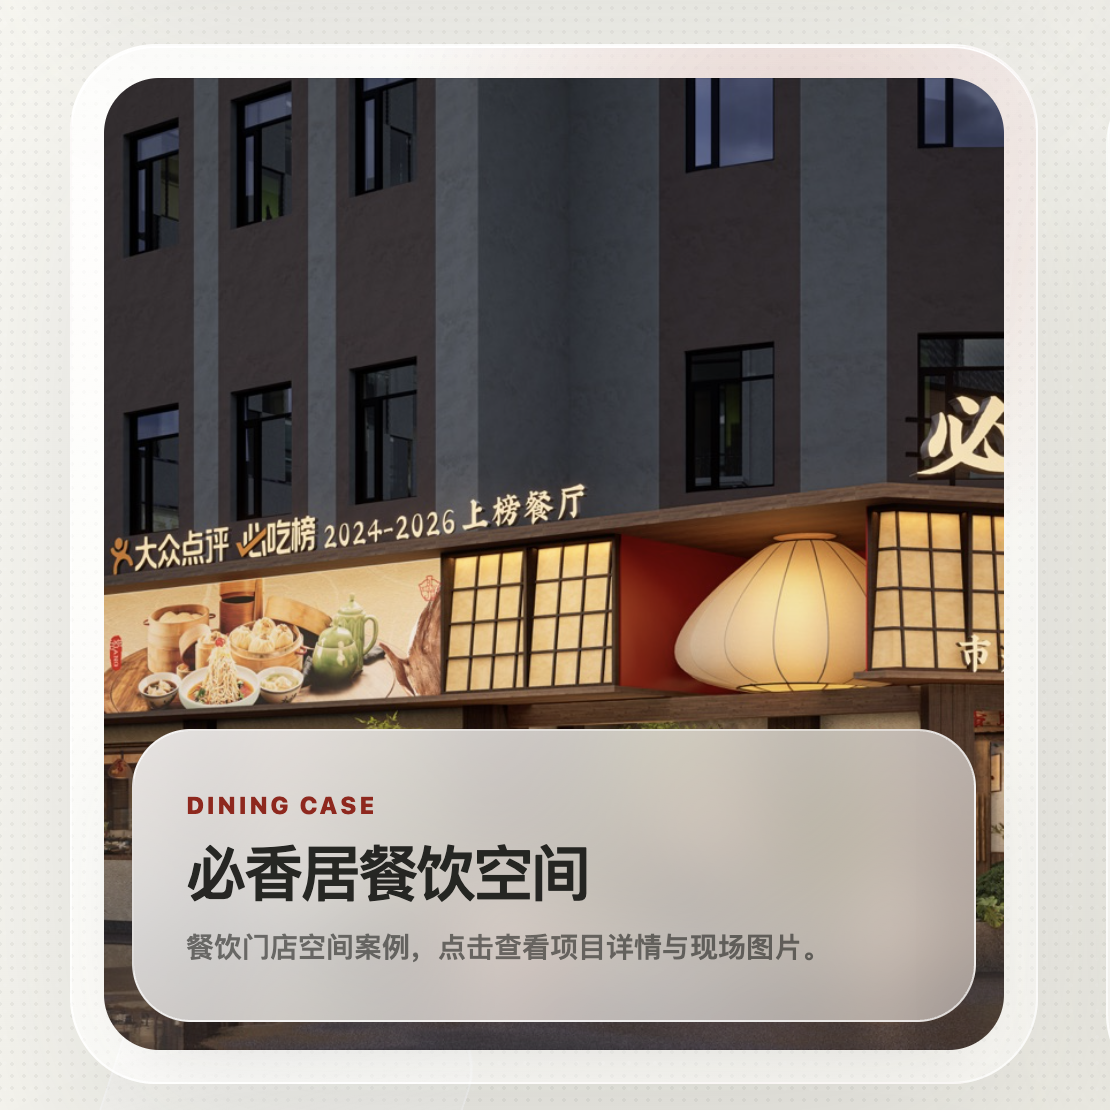
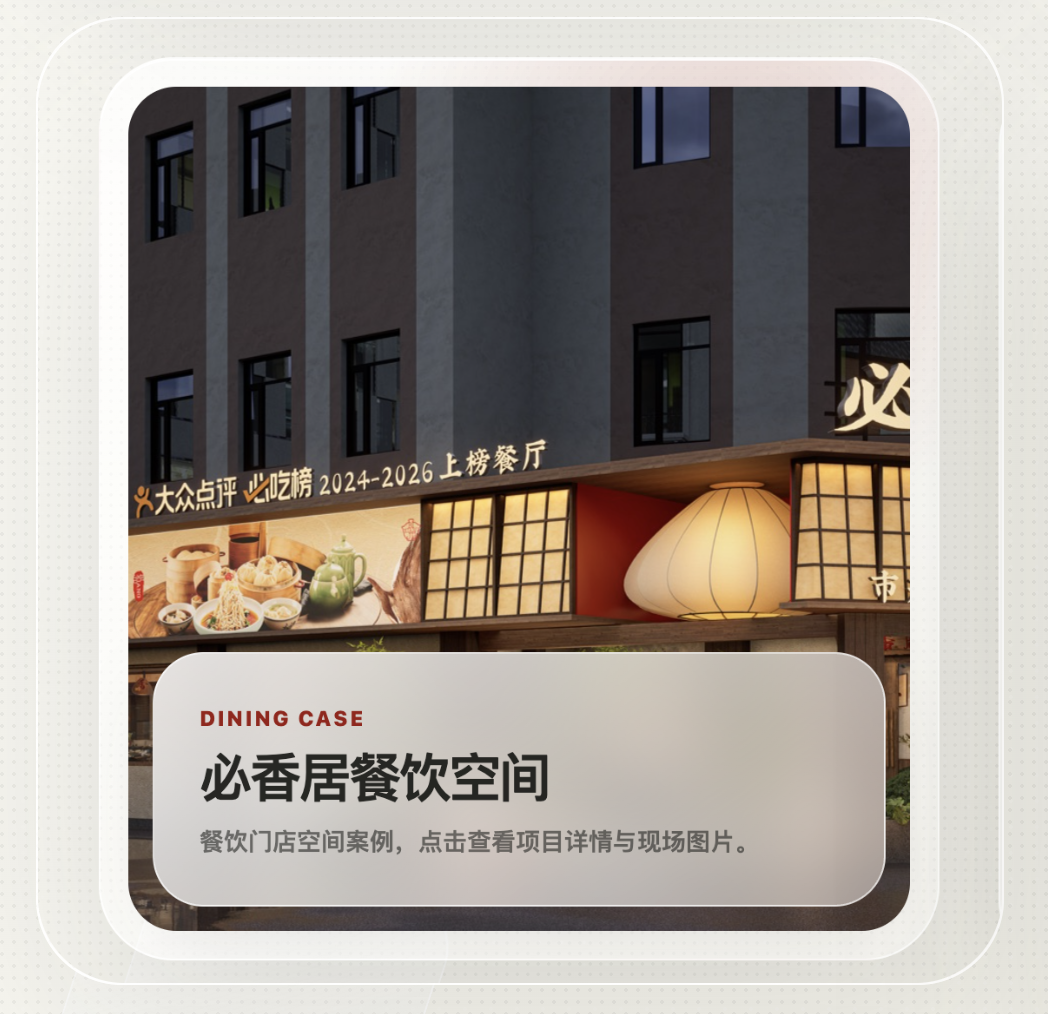
Refine Bixiangju entry cover and project info

diff --git a/outputs/dingji-cases.html b/outputs/dingji-cases.html
@@ -752,7 +752,7 @@
     .case-detail-card.bixiangju-entry {
       min-height: auto;
       aspect-ratio: 1;
-      padding: 0;
+      padding: clamp(18px, 2vw, 28px);
       background: rgba(255,255,255,.48);
     }
     .case-detail-link {
@@ -786,6 +786,21 @@
       inset: 0;
       border-radius: inherit;
       background: rgba(255,255,255,.64);
+    }
+    .bixiangju-entry .case-photo::after {
+      content: "";
+      position: absolute;
+      inset: 0;
+      display: block;
+      border: 0;
+      border-radius: inherit;
+      background: linear-gradient(180deg, rgba(0,0,0,.08), transparent 42%, rgba(0,0,0,.24));
+    }
+    .bixiangju-entry .case-detail-copy {
+      width: min(100%, 360px);
+      margin: 0 auto;
+      border-radius: clamp(24px, 2vw, 36px);
+      background: linear-gradient(145deg, rgba(255,255,255,.88), rgba(235,231,224,.72));
     }
     .case-photo::before {
       content: "PROJECT IMAGE";
@@ -1330,8 +1345,9 @@
         </article>
         <a class="case-detail-card case-detail-link bixiangju-entry" id="bixiangju" href="/cases/bixiangju" style="--brand:#9b1b14;--reveal-index:3" data-reveal aria-label="查看必香居餐饮空间案例详情">
           <div class="case-photo has-image">
-            <img src="/public/assets/cases/bixiangju-card-cover.png" alt="必香居餐饮空间入口封面">
+            <img src="/public/assets/cases/bixiangju-xingcheng-storefront-cover.png" alt="兴城路必香居店门头封面">
           </div>
+          <div class="case-detail-copy"><small>Dining Case</small><h3>兴城路必香居店</h3><p>餐饮门店空间案例，点击查看项目详情与现场图片。</p></div>
         </a>
         <article class="case-detail-card" id="laoxiangji" style="--brand:#07843f" data-reveal>
           <div class="case-photo"></div>

diff --git a/outputs/cases/bixiangju.html b/outputs/cases/bixiangju.html
@@ -372,12 +372,12 @@
       <section class="section intro" aria-label="案例简介">
         <h2>餐饮空间案例</h2>
         <div class="intro-copy">
-          <p>本项目围绕餐饮门店的日常运营、顾客动线、门头识别、就餐体验与后场配套进行整体落地，强调空间形象与工程实施之间的平衡。</p>
-          <p>页面当前以项目照片展示门店正立面与室内外氛围，后续可继续补充具体地址、面积、施工范围与合作时间等信息。</p>
+          <p>兴城路必香居店围绕餐饮门店的日常运营、顾客动线、门头识别、就餐体验与后场配套进行整体落地，强调空间形象与工程实施之间的平衡。</p>
+          <p>项目以温润木色、暖光界面和具备记忆点的门头立面建立品牌识别，让市井早茶与淮扬风味的餐饮气质在空间中自然呈现。</p>
           <div class="meta-grid" aria-label="项目信息">
-            <div class="meta"><small>Project</small><b>必香居餐饮空间</b></div>
+            <div class="meta"><small>Project</small><b>兴城路必香居店</b></div>
             <div class="meta"><small>Category</small><b>餐饮装修</b></div>
-            <div class="meta"><small>Status</small><b>案例信息待补充</b></div>
+            <div class="meta"><small>Location</small><b>兴城路必香居店</b></div>
           </div>
         </div>
       </section>